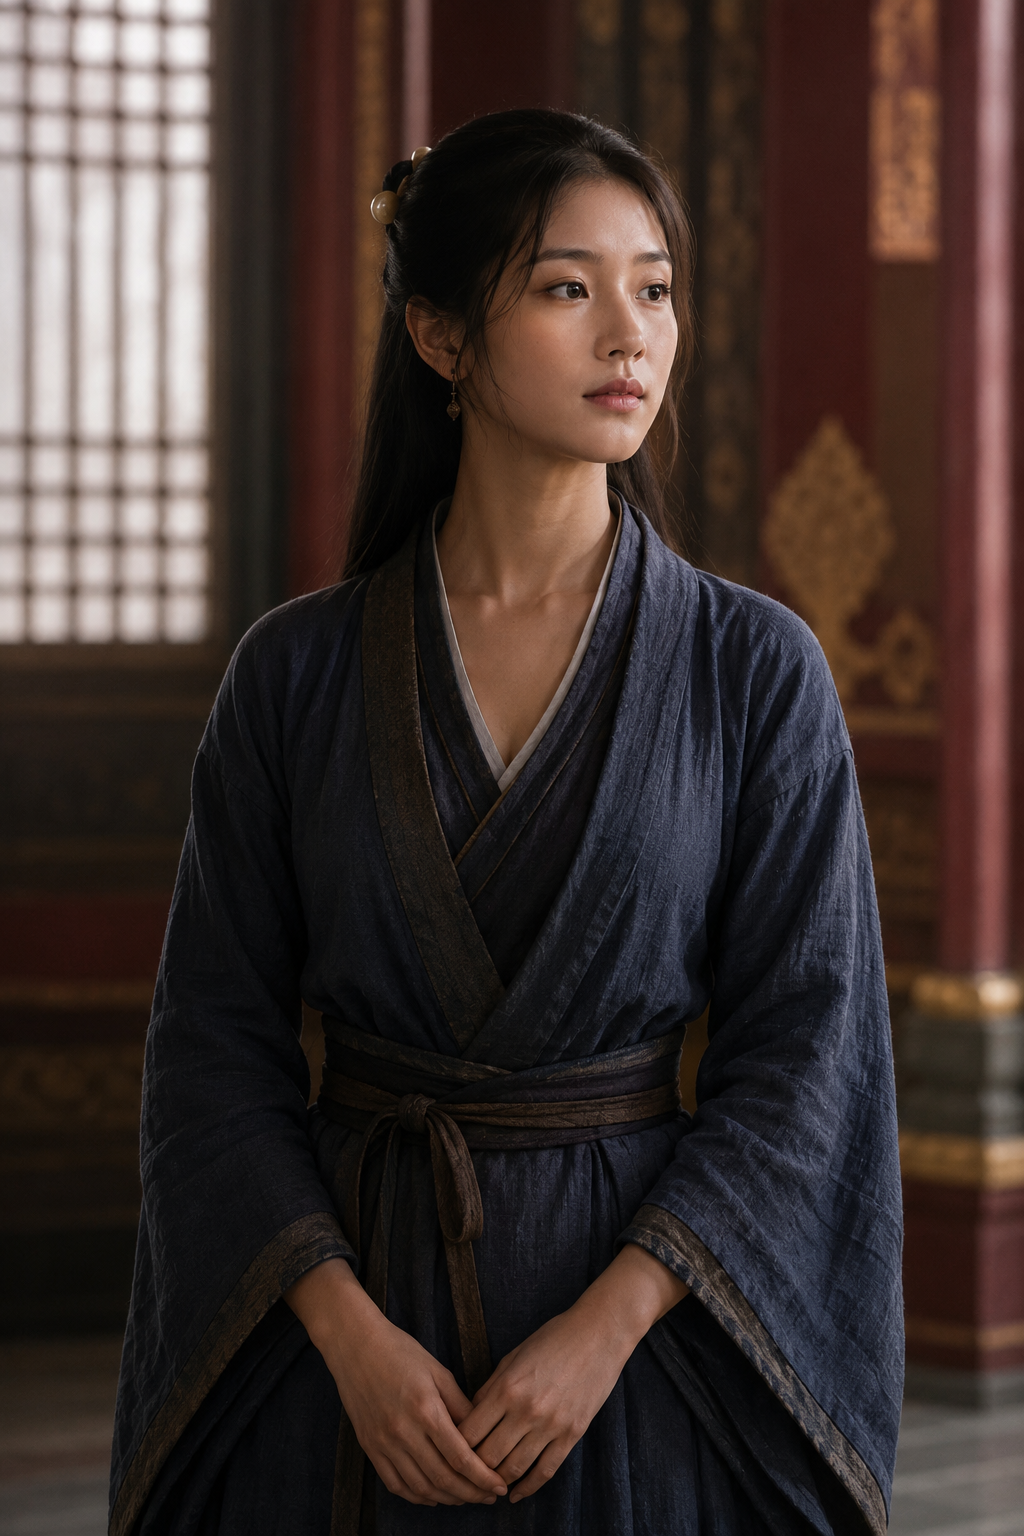
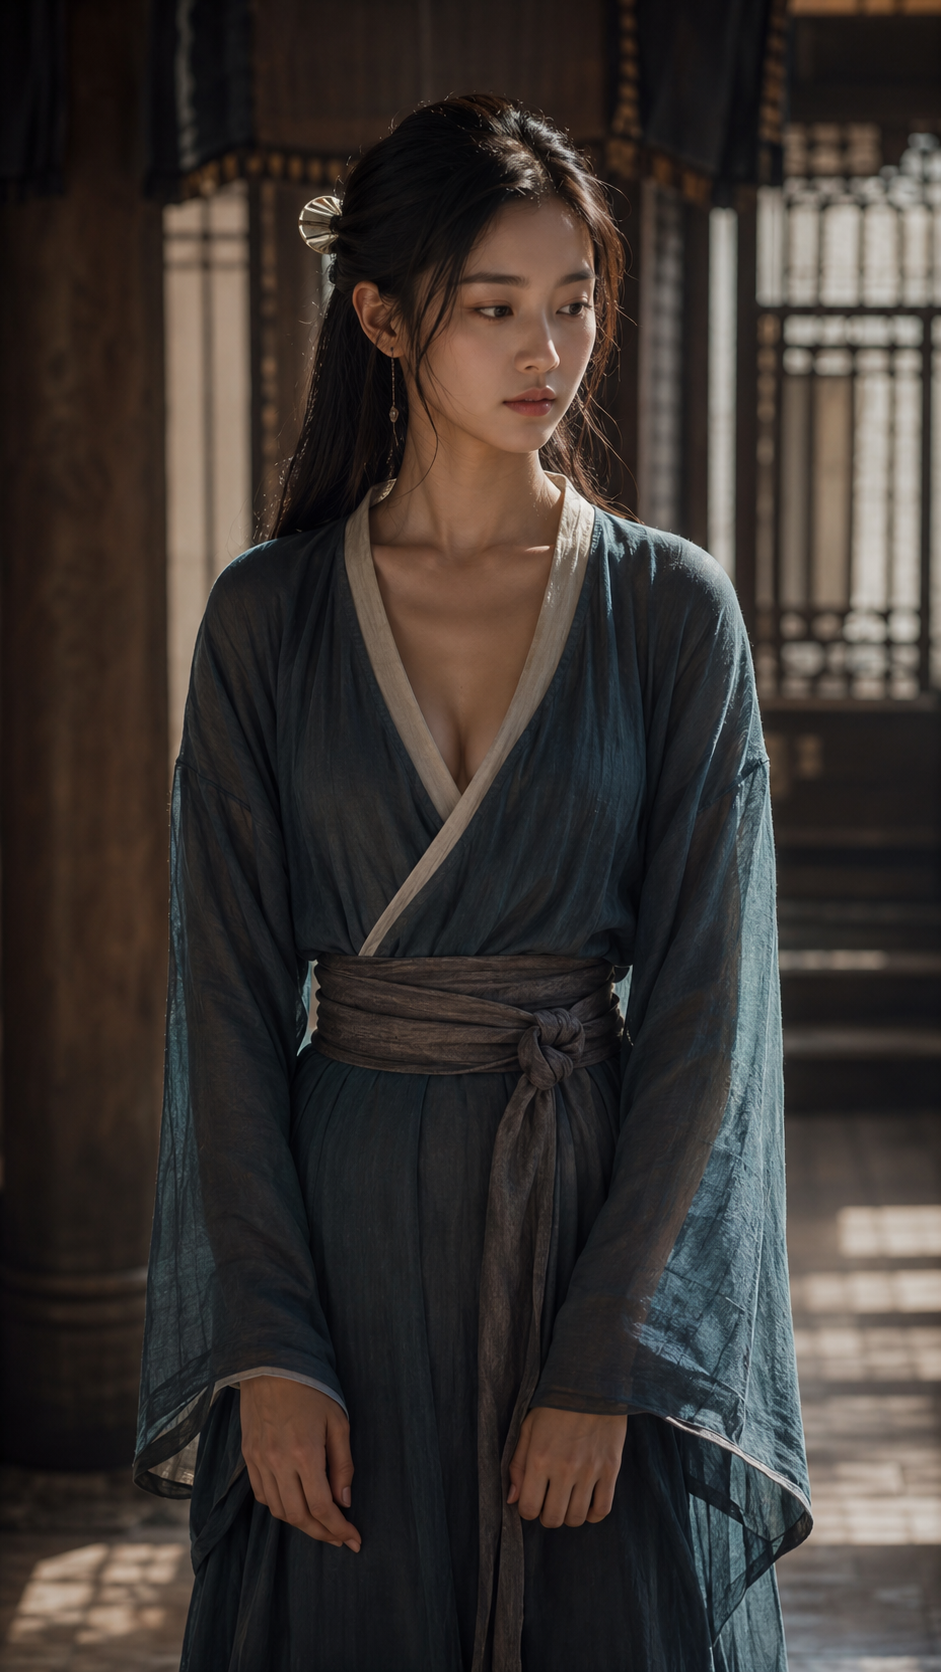
push

diff --git a/README.md b/README.md
@@ -7,6 +7,7 @@ GPT 이미지 생성 프롬프트
 이 케릭터를 20살,동양여자 기준으로 프로필 이미지 만들어줘
 
 이미지 생성 지침
+캐릭터 설정을 읽지 않은 사람이 이미지를 보더라도 성격과 신분이 어느 정도 짐작될 수 있도록 표현.
 캐릭터 설정을 최우선으로 반영.
 임의 재해석 금지.
 설정에 없는 특징 추가 금지.
@@ -26,13 +27,17 @@ GPT 이미지 생성 프롬프트
 캐릭터 소개용 공식 프로필 이미지 스타일.
 사실적이고 시네마틱한 사극 드라마 분위기.
 특정 배우나 실제 인물을 닮게 생성하지 말 것.
+목선과 쇄골이 자연스럽게 드러나는 전통 의상
+얇고 섬세한 비단 소재 표현
+허리선이 은은하게 드러나는 실루엣
 
 구도
 궁 내부
 세로형 이미지
-시선은 카메라를 직접 응시하지 않고 약간 먼 곳을 바라봄
-입가에 아주 옅은 미소
-두 손은 단정하게 모음
+시선, 표정, 자세는 캐릭터 설정과 성격을 최우선으로 반영한다.
+시선 방향을 고정하지 않는다.
+캐릭터의 성격, 지위, 현재 감정에 가장 적합한 시선과 표정을 선택한다.
+단, 얼굴이 명확하게 보이며 인물의 인상이 잘 전달되도록 한다.
 머리부터 허벅지까지
 인물 중앙 배치
 배경은 보조 요소
